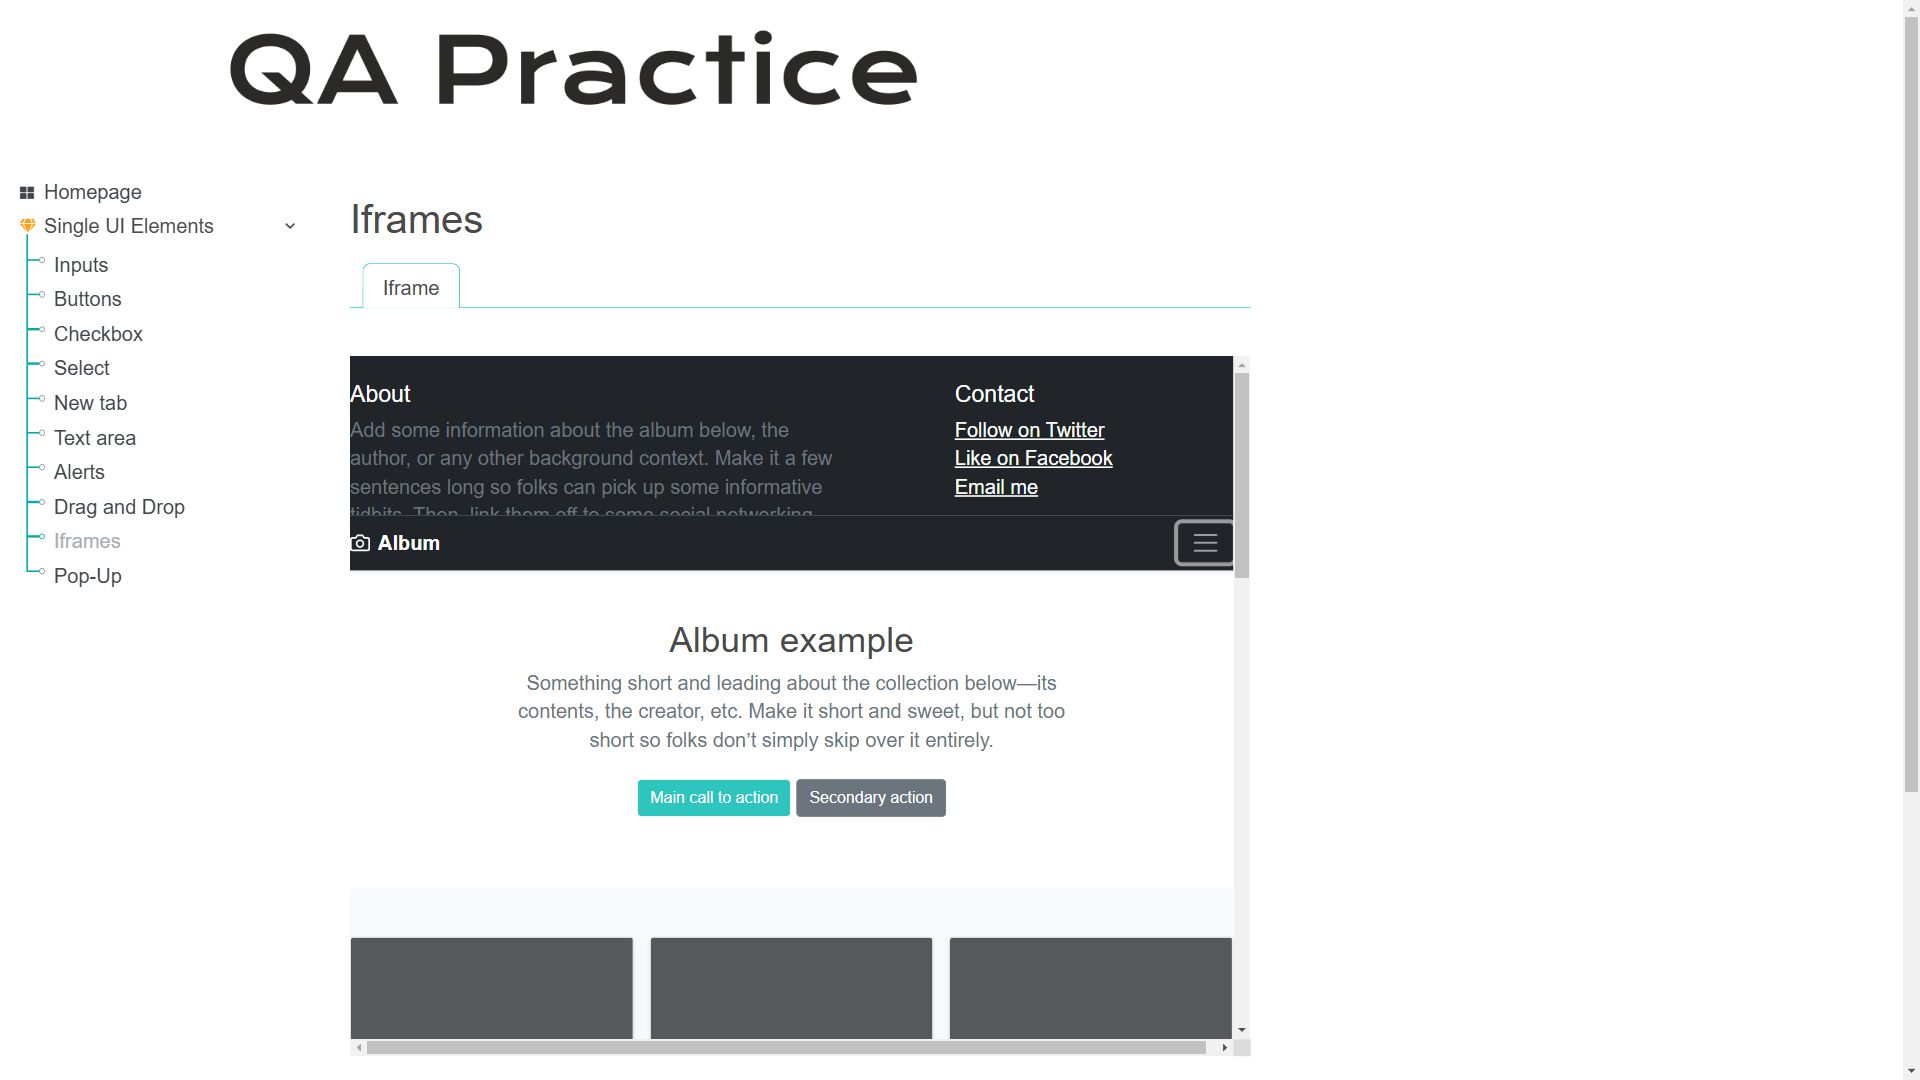
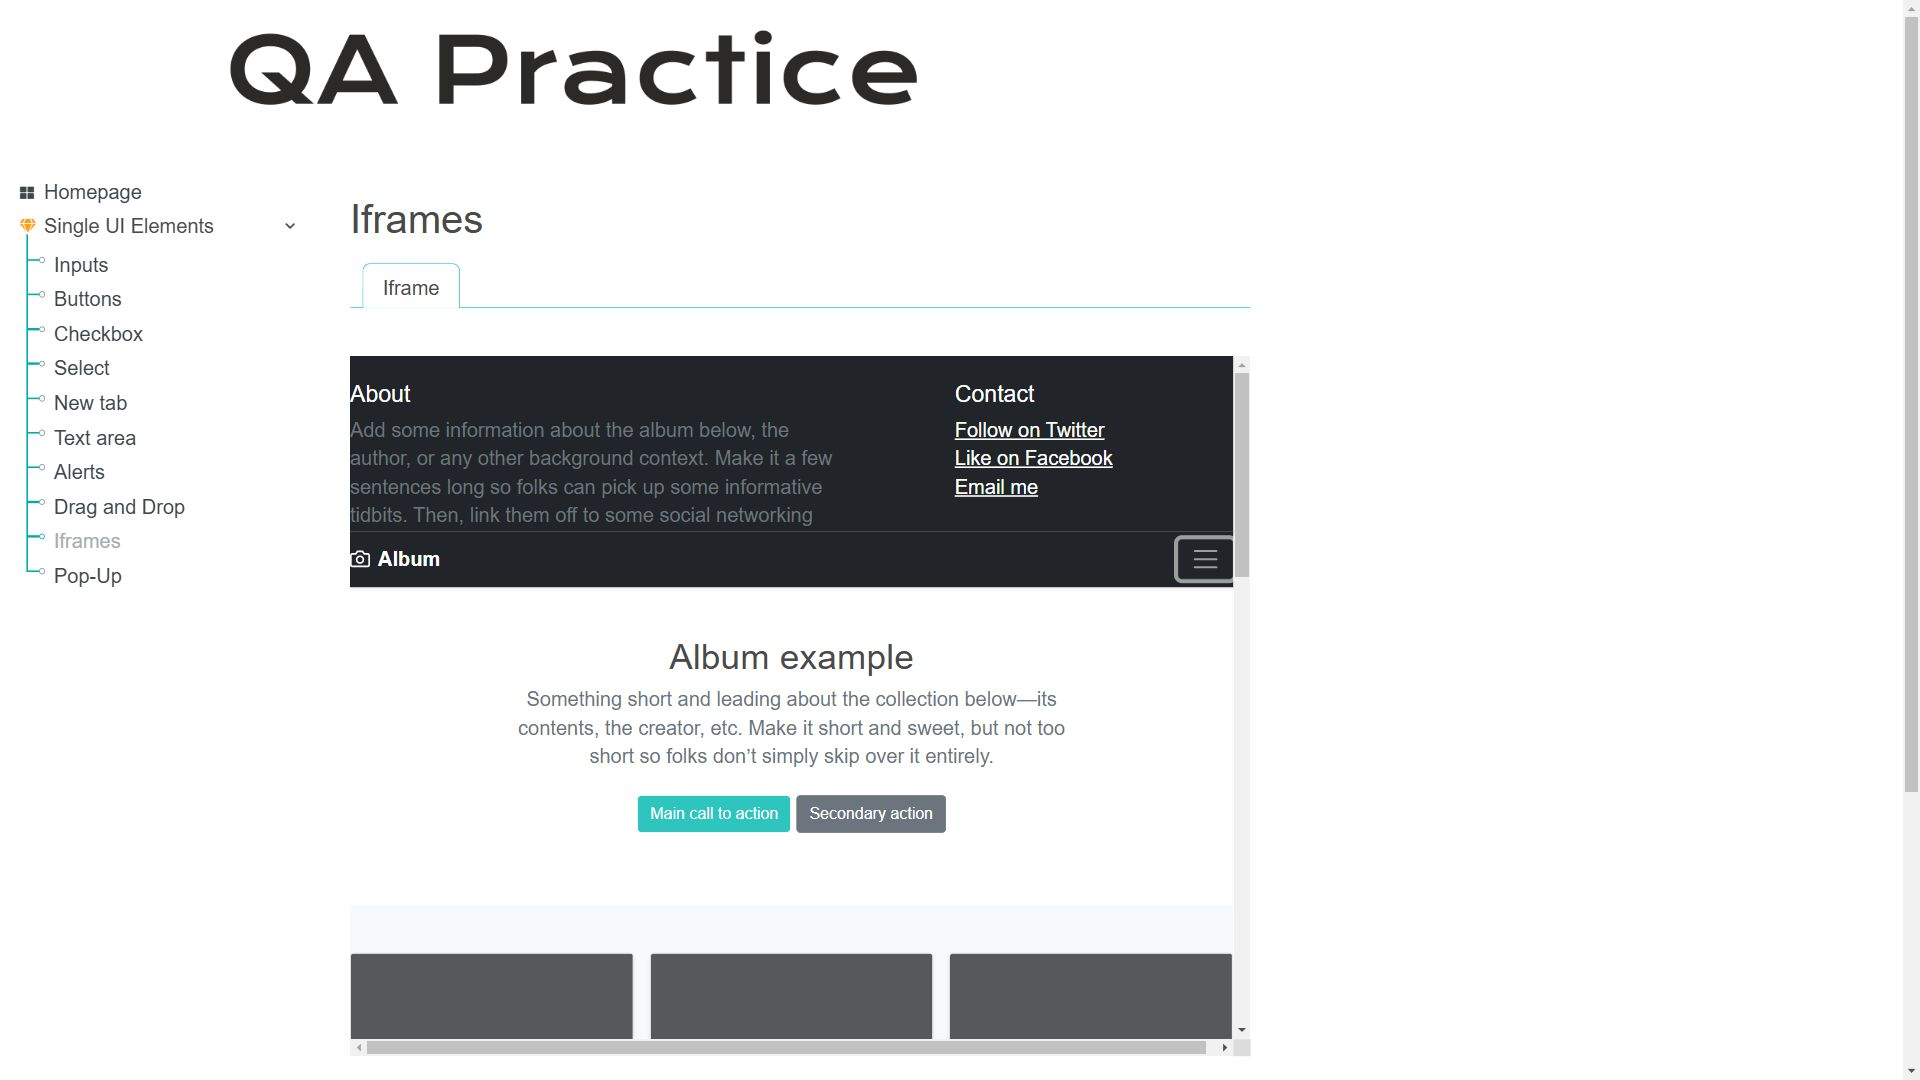
Add new file

diff --git a/test_sync.py b/test_sync.py
@@ -1,0 +1,62 @@
+from playwright.sync_api import sync_playwright, expect, Page
+import re
+import pytest
+
+
+@pytest.fixture()
+def page():
+    with sync_playwright() as p:
+        browser = p.chromium.launch(headless=False)
+        context = browser.new_context()
+        page: Page = context.new_page()
+        page.set_viewport_size({'height': 1080, 'width': 1920})
+        yield page
+        browser.close()
+
+
+def test_first(page):
+    page.goto('https://www.google.com/')
+    expect(page).to_have_title('Google')
+    mail_link = page.get_by_role('link', name='Gmail')
+    #print(mail_link.get_attribute('href'))
+    expect(mail_link).to_have_attribute('href', re.compile('https://mail.google.com/mail/&ogbl'))
+    #input_field = page.locator('#APjFqb')
+    input_field = page.locator('xpath=//*[@id="APjFqb"]')
+    input_field.fill('cat')
+    search_button = page.locator('(//input[@name="btnK"])[2]')
+    search_button.click()
+    expect(page).to_have_title(re.compile('cat', re.IGNORECASE))
+
+def test_dynamic_props(page):
+        page.goto('https://demoqa.com/dynamic-properties')
+        button = page.locator('#visibleAfter')
+        button.click()
+        page.screenshot(type='jpeg', path='shot.jpg')
+
+def test_iframe(page):
+        page.goto('https://www.qa-practice.com/elements/iframe/iframe_page')
+        toggler = page.frames[1].locator('css=.navbar-toggler-icon')
+        toggler.click()
+        page.screenshot(type='jpeg', path='toggler.jpg')
+
+
+def test_drag(page):
+        page.goto('https://www.qa-practice.com/elements/dragndrop/boxes')
+        page.drag_and_drop('#rect-draggable', '#rect-droppable')
+        page.screenshot(type='jpeg', path='drag.jpg')
+
+
+def test_select(page):
+        page.goto('https://www.qa-practice.com/elements/button/disabled')
+        page.locator('#id_select_state').select_option('enabled')
+        page.screenshot(type='jpeg', path='select.jpg')
+
+
+def test_hover(page):
+        page.goto('https://magento.softwaretestingboard.com/')
+        page.locator('#ui-id-4').hover()
+        page.locator('#ui-id-9').hover()
+        page.screenshot(type='jpeg', path='hover.jpg')
+
+
+
